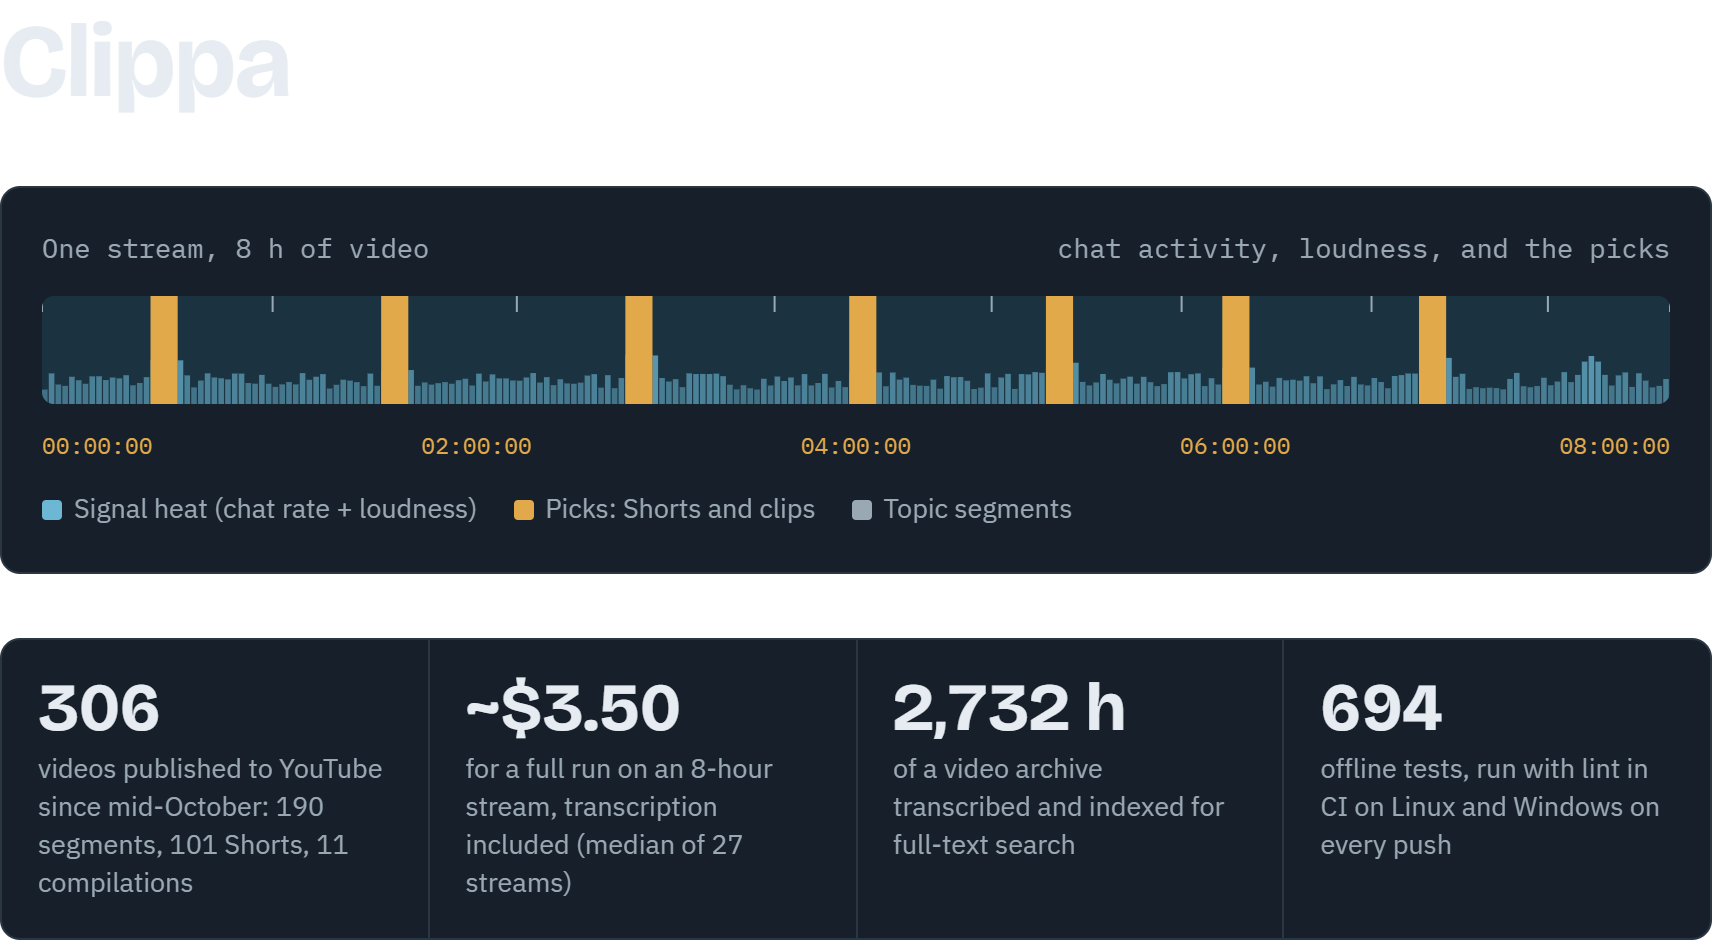
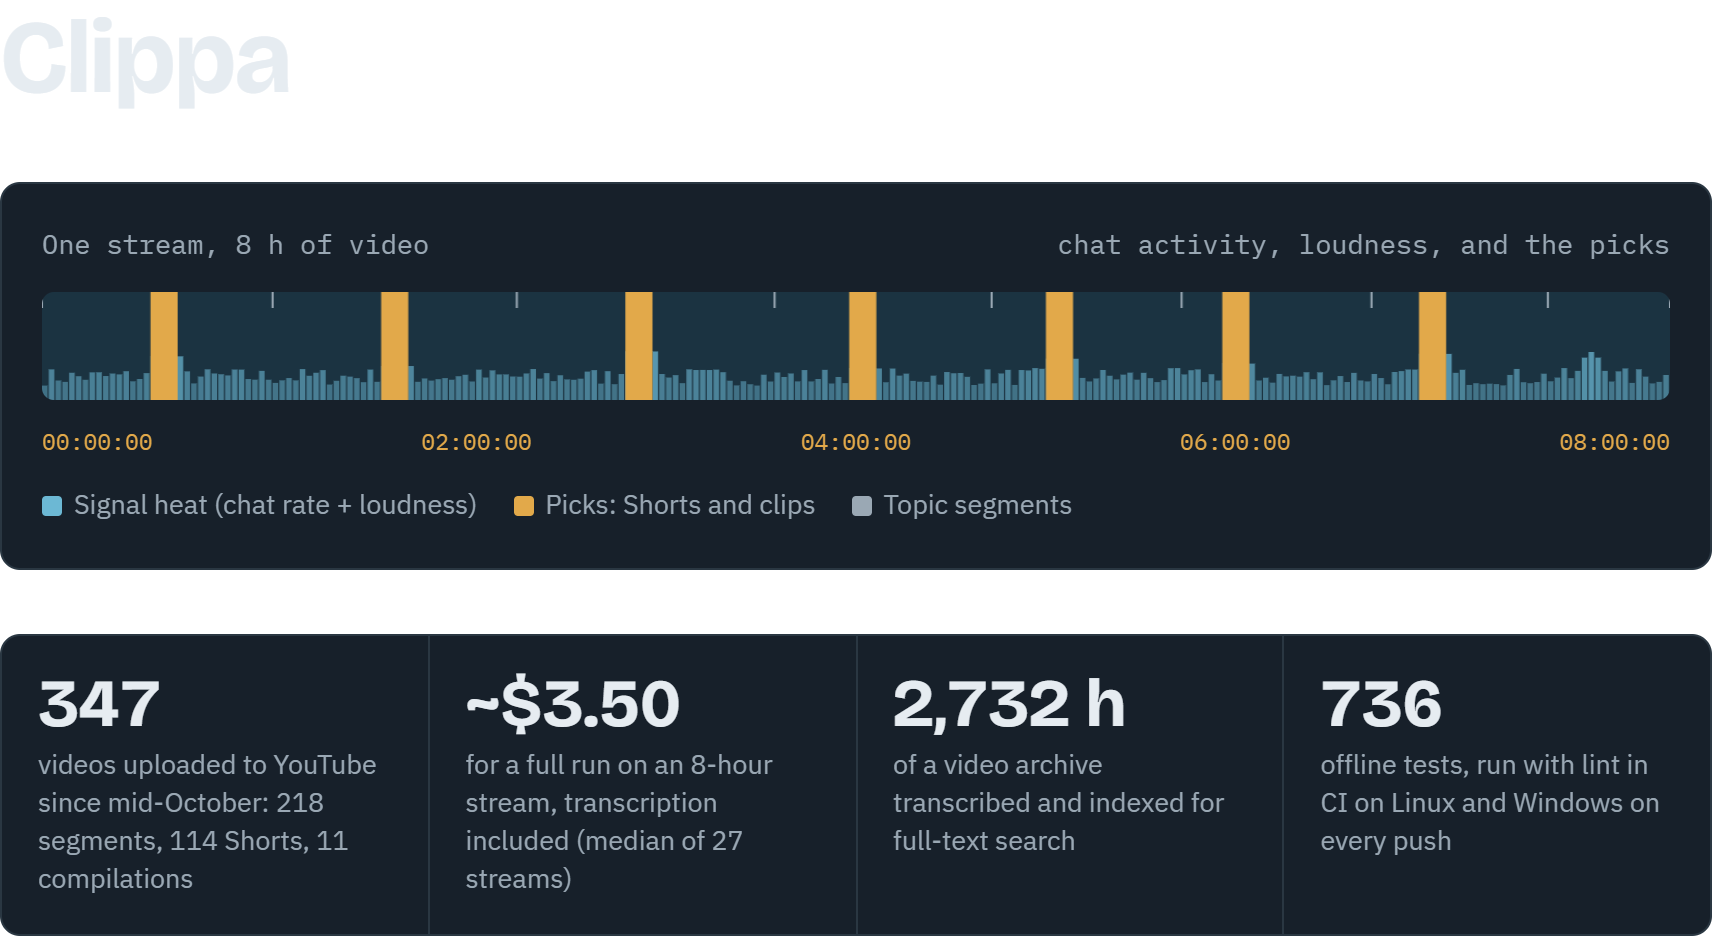
README hero: figures as of 11-13 (347 videos, 736 tests)

diff --git a/docs/log/2026-11.md b/docs/log/2026-11.md
@@ -1442,11 +1442,11 @@ on request".
 
 The hero is `docs/readme/hero-light.png` and `hero-dark.png` in a `<picture>` with a `prefers-color-scheme`
 source, transparent so it sits on any GitHub theme. Re-render when the figures move (306 videos, ~$3.50 a
-run, 2,732 h, 694 tests, all as of 11-11; edit them in the site's page first): Playwright with the
+run, 2,732 h, 694 tests as of 11-11; 347 videos and 736 tests as of 11-13; edit them in the site's page first): Playwright with the
 installed Edge (`uvx --with playwright python ...`, `chromium.launch(channel="msedge")`, no browser
 download), viewport 860 wide at `device_scale_factor` 2, once per `color_scheme`, an added style that hides
-`.topnav`, `.byline`, `header .eyebrow`, `.lede`, `section` and `footer`, sets html and body transparent
-and the `.wrap` side padding to 2px, then `page.locator("header").screenshot(omit_background=True)` after
+`.topnav`, `.byline`, `header .eyebrow`, `.lede`, `section` and `footer`, sets html and body transparent,
+the header's padding to `0 1px` and the `.wrap` side padding to 2px, then `page.locator("header").screenshot(omit_background=True)` after
 `document.fonts.ready`. The og card is the same page at 1200x630, dark, without the figures.
 
 ## 2026-11-12 B-roll library (#229, step 1)
